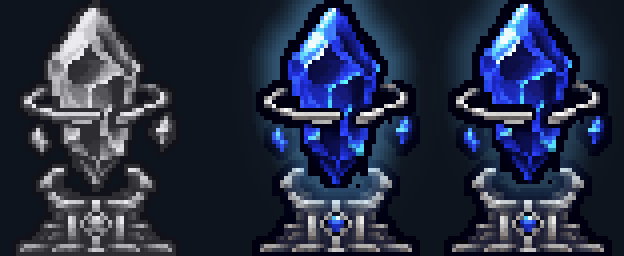
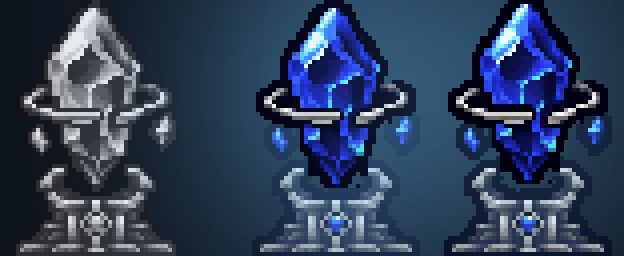
修改特效

diff --git a/Common/Adventure/AdventurePylonTile.cs b/Common/Adventure/AdventurePylonTile.cs
@@ -121,9 +121,9 @@ public sealed class AdventurePylonTile : ModPylon
             || !Main.LocalPlayer.GetModPlayer<AdventurePlayer>().HasCrystal(CrystalWorldSystem.StationKey(station)))
             return;
         float pulse = 0.5f + 0.5f * (float)Math.Cos(Main.GameUpdateCount * Math.PI / 72d);
-        r = 0.20f + pulse * 0.08f;
-        g = 0.37f + pulse * 0.13f;
-        b = 0.62f + pulse * 0.16f;
+        r = 0.5f + pulse * 0.08f;
+        g = 0.8f + pulse * 0.13f;
+        b = 0.7f + pulse * 0.16f;
     }
 
     public override bool PreDraw(int i, int j, SpriteBatch spriteBatch)
@@ -148,8 +148,11 @@ public sealed class AdventurePylonTile : ModPylon
 
         int frame = (int)(Main.GameUpdateCount / 12 % CrystalBob.Length);
         Vector2 origin = new Vector2(i * 16 - (int)Main.screenPosition.X, j * 16 - (int)Main.screenPosition.Y + 2) + offset;
-        spriteBatch.Draw(glowTexture.Value,
-            origin + new Vector2(-8, -8), new Rectangle(0, frame * 80, 64, 80), Color.White);
+        Texture2D glow = glowTexture.Value;
+        int glowFrameHeight = glow.Height / CrystalBob.Length;
+        spriteBatch.Draw(glow,
+            origin - new Vector2((glow.Width - 48) / 2f, (glowFrameHeight - 64) / 2f),
+            new Rectangle(0, frame * glowFrameHeight, glow.Width, glowFrameHeight), Color.White);
         spriteBatch.Draw(unlockedTexture.Value, origin, null, Lighting.GetColor(i, j));
         spriteBatch.Draw(crystalBodyTexture.Value, origin + new Vector2(0, CrystalBob[frame]),
             null, Color.Lerp(Lighting.GetColor(i, j), Color.White, 0.7f));
